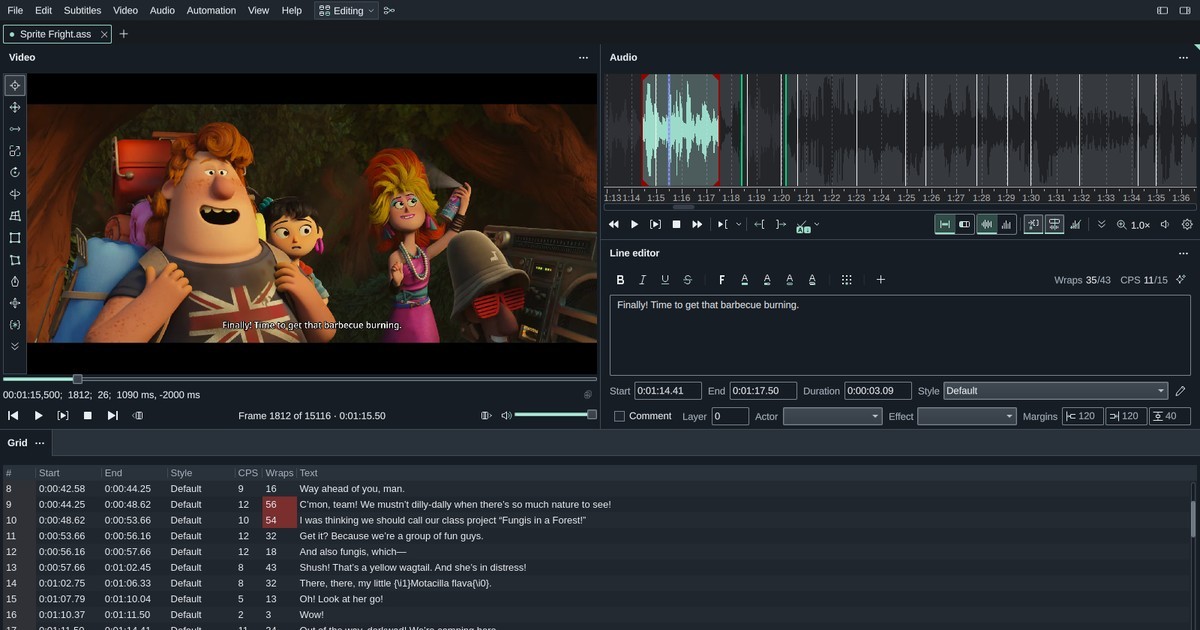
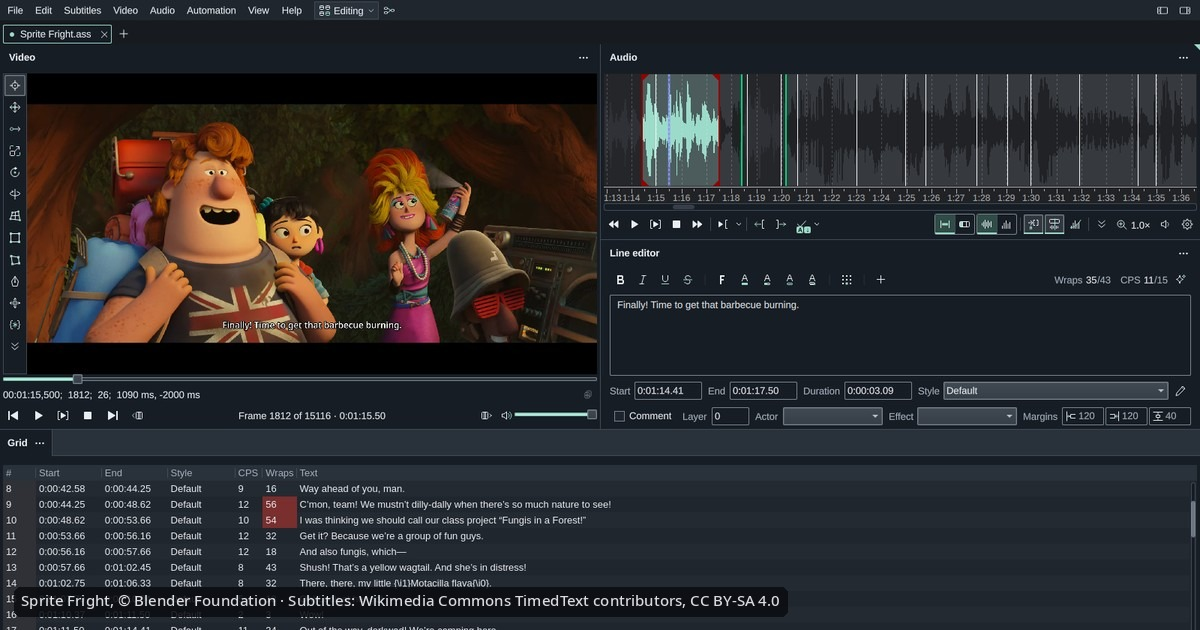
Homepage tiles, the Tour's Typesetting layout and the link card (CX7 shots for #244)
The seven remaining Plus tiles get CX7's pictures, so no placeholder is left
and the placeholder component goes. The Tour's Typesetting layout is now a
Sprite Fright frame, so its Jibrill credit drops; the homepage adds
"Subtitles: Jibrill (node effects)" for the Node effects tile. The link card
has its credit drawn in, and its alt text no longer says karaoke.

Changed region(s): [[0.0, 0.9048, 0.6783, 0.9952]]

diff --git a/src/routes/$lang/index.tsx b/src/routes/$lang/index.tsx
@@ -12,16 +12,29 @@ import {
   Music,
   Type,
 } from 'lucide-react';
+import aiReviewDark from '@/assets/home/ai-review-dark.webp';
+import aiReviewLight from '@/assets/home/ai-review-light.webp';
+import checkingDark from '@/assets/home/checking-dark.webp';
+import checkingLight from '@/assets/home/checking-light.webp';
 import heroDark from '@/assets/home/hero-dark.webp';
 import heroLight from '@/assets/home/hero-light.webp';
+import motionTrackingDark from '@/assets/home/motion-tracking-dark.webp';
+import motionTrackingLight from '@/assets/home/motion-tracking-light.webp';
+import nodeEffectsDark from '@/assets/home/node-effects-dark.webp';
+import nodeEffectsLight from '@/assets/home/node-effects-light.webp';
+import pluginsDark from '@/assets/home/plugins-dark.webp';
+import pluginsLight from '@/assets/home/plugins-light.webp';
+import projectsDark from '@/assets/home/projects-dark.webp';
+import projectsLight from '@/assets/home/projects-light.webp';
 import typesettingDark from '@/assets/home/typesetting-dark.webp';
 import typesettingLight from '@/assets/home/typesetting-light.webp';
+import windowsDark from '@/assets/home/windows-dark.webp';
+import windowsLight from '@/assets/home/windows-light.webp';
 import { parityCounts } from '@/components/aegisub-parity';
 import { AssPreview } from '@/components/ass-preview';
 import { DownloadButton } from '@/components/download-button';
 import { GuideLink } from '@/components/guide-link';
 import { PageCredits } from '@/components/page-credits';
-import { ShotPlaceholder } from '@/components/shot-placeholder';
 import { ThemedImage } from '@/components/themed-image';
 import { baseOptions } from '@/lib/layout.shared';
 import { pageHead, siteDescription } from '@/lib/seo';
@@ -105,46 +118,65 @@ const aegisubTiles: (Tile & { icon: LucideIcon; extra?: string })[] = [
 ];
 
 /** What Aegisub doesn't have: the eight Q488 tiles, in order. */
-const plusTiles: (Tile & { shows: string; image?: { light: string; dark: string; alt: string } })[] = [
+const plusTiles: (Tile & { image: { light: string; dark: string; alt: string } })[] = [
   {
     title: 'Projects and the Explorer',
     text: 'Open a folder as a Project: an Explorer for its files, with catalogues, fonts, scripts and settings that travel with it.',
-    shows: 'The Explorer with an episode group open.',
+    image: {
+      light: projectsLight,
+      dark: projectsDark,
+      alt: "The Explorer beside the Grid on a Sprite Fright frame: the Project's settings, its fonts folder and two subtitle files, with Sprite Fright.ass open to show its video and keyframes.",
+    },
     guide: 'basics/projects',
     more: 'Projects and the Explorer',
   },
   {
     title: 'Several windows',
     text: 'Move a tab to another window. Each window plays its own video, and a session brings every window back.',
-    shows: 'Two windows on one desktop, each with its own video.',
+    image: {
+      light: windowsLight,
+      dark: windowsDark,
+      alt: 'Two HikariSub windows on one desktop: Sprite Fright.ass in the Editing layout and Sprite Fright signs.ass in the Typesetting layout, each playing its own frame of the video.',
+    },
     guide: 'customize/layouts#windows',
     more: 'Several windows',
   },
   {
     title: 'Hikari AI with every edit in review',
     text: 'The Agent and inline actions suggest edits, and each one waits in Review until you keep or undo it. One box turns all AI off.',
-    shows: 'An Agent panel thread, with Review showing a kept and an undone line.',
+    image: {
+      light: aiReviewLight,
+      dark: aiReviewDark,
+      alt: "An Agent thread asked to shorten the long lines around 1:15: line 3's edit is kept, line 4's is undone, and line 5's still waits in the Review panel.",
+    },
     guide: 'ai/agent',
     more: 'Hikari AI with every edit in review',
   },
   {
     title: 'Node effects',
     text: 'Build karaoke and typesetting effects as a graph of nodes, previewed on the video, written as template lines.',
-    shows: 'The node graph with its preview.',
+    image: {
+      light: nodeEffectsLight,
+      dark: nodeEffectsDark,
+      alt: 'Node effects with the Falling letters preset on a karaoke line: its graph of 19 nodes and 29 wires, the preview on the video, and the template lines it writes below.',
+    },
     guide: 'karaoke/node-effects',
     more: 'Node effects',
   },
   {
     title: 'Motion and perspective tracking',
     text: 'Apply motion data and Power-Pin tracks so a sign follows the object it sits on.',
-    shows: 'Motion data applied: a sign tracking a moving object.',
+    image: {
+      light: motionTrackingLight,
+      dark: motionTrackingDark,
+      alt: 'A Sprite Fright frame with the sign "Sporeling" placed above a walking mushroom, with the visual typesetting tools down the left.',
+    },
     guide: 'typesetting/motion-tracking',
     more: 'Motion and perspective tracking',
   },
   {
     title: 'Typesetting tools',
     text: 'Perspective, Gradient and Text on path on the video, with blur and glow layers.',
-    shows: 'The Perspective tool on a sign.',
     image: {
       light: typesettingLight,
       dark: typesettingDark,
@@ -156,14 +188,22 @@ const plusTiles: (Tile & { shows: string; image?: { light: string; dark: string;
   {
     title: 'Checking',
     text: 'A grammar check, every installed dictionary at once for mixed-language lines, and QC notes kept in the file.',
-    shows: 'The Spellchecker panel with grammar flags.',
+    image: {
+      light: checkingLight,
+      dark: checkingDark,
+      alt: 'The Spellchecker panel on its Grammar tab: finding 1 of 6 says to use "have" rather than "of" in "We should of brought more marshmallows.", with "should have" to replace it.',
+    },
     guide: 'checking/grammar',
     more: 'Checking',
   },
   {
     title: 'Plugins',
     text: 'Add commands, panels and nodes from the marketplace. Each plugin is signed and asks before it reads folders or the network.',
-    shows: 'The plugin manager with the Marketplace.',
+    image: {
+      light: pluginsLight,
+      dark: pluginsDark,
+      alt: "The plugin manager's Marketplace tab with Macro chains selected: By HikariSub, its permissions, and the Needs, Licence, Updated and Source rows, with an Install button.",
+    },
     guide: 'plugins/using-plugins',
     more: 'Plugins',
   },
@@ -293,19 +333,15 @@ function Home() {
                 {(published) => (
                   <div className={tileClass}>
                     <div className="-mx-1.5 -mt-1.5 mb-1 overflow-hidden rounded-md">
-                      {tile.image ? (
-                        <ThemedImage
-                          light={tile.image.light}
-                          dark={tile.image.dark}
-                          alt={tile.image.alt}
-                          width={1200}
-                          height={502}
-                          loading="lazy"
-                          className="aspect-[1200/502] w-full object-cover"
-                        />
-                      ) : (
-                        <ShotPlaceholder shows={tile.shows} aspect="1200 / 502" className="my-0" />
-                      )}
+                      <ThemedImage
+                        light={tile.image.light}
+                        dark={tile.image.dark}
+                        alt={tile.image.alt}
+                        width={1200}
+                        height={502}
+                        loading="lazy"
+                        className="aspect-[1200/502] w-full object-cover"
+                      />
                     </div>
                     <h3 className="font-semibold">{tile.title}</h3>
                     <p className="text-sm text-fd-muted-foreground">{tile.text}</p>
@@ -354,7 +390,7 @@ function Home() {
       </main>
 
       <footer className="mx-auto flex w-full max-w-[1120px] flex-col gap-2 border-t px-6 py-6 text-sm text-fd-muted-foreground">
-        <PageCredits commons />
+        <PageCredits commons jibrill="node effects" />
         <div className="flex flex-wrap gap-x-6 gap-y-2">
           <span>HikariSub is free software under the GNU GPL v3.</span>
           <span className="flex-1" />

diff --git a/src/lib/seo.ts b/src/lib/seo.ts
@@ -3,12 +3,14 @@ import { appName, siteUrl } from './shared';
 export const siteDescription =
   'A subtitle editor and player for everything from quick fixes to full typesetting. ASS, SRT and other formats, with frame-accurate video, for Windows and Linux.';
 
-// public/og-image.jpg: the top of the homepage hero (dark), Sprite Fright with the Commons en track (CX7, altqx/hikari#810).
+// public/og-image.jpg: the top of the homepage hero (dark), Sprite Fright with the Commons en track, and its credit
+// drawn in: "Sprite Fright, © Blender Foundation · Subtitles: Wikimedia Commons TimedText contributors, CC BY-SA 4.0"
+// (CX7, altqx/hikari#810).
 export const siteImage = {
   url: `${siteUrl}/og-image.jpg`,
   width: 1200,
   height: 630,
-  alt: 'HikariSub in the Editing layout: the video with karaoke subtitles, the Audio panel, the Line editor and the Grid',
+  alt: 'HikariSub in the Editing layout on a Sprite Fright frame: the video, the Audio panel, the Line editor and the Grid',
 };
 
 export function canonicalUrl(path: string): string {

diff --git a/src/components/mdx.tsx b/src/components/mdx.tsx
@@ -5,7 +5,6 @@ import { AnnotatedImage } from './annotated-image';
 import { AssPreview } from './ass-preview';
 import { DownloadTable, ReleaseStatus } from './download-table';
 import { PageCredits } from './page-credits';
-import { ShotPlaceholder } from './shot-placeholder';
 import { ThemedClip } from './themed-clip';
 import { ThemedImage } from './themed-image';
 
@@ -22,7 +21,6 @@ export function getMDXComponents(components?: MDXComponents) {
     ParityTable,
     ReleaseStatus,
     PageCredits,
-    ShotPlaceholder,
     ThemedClip,
     ThemedImage,
     ...components,
